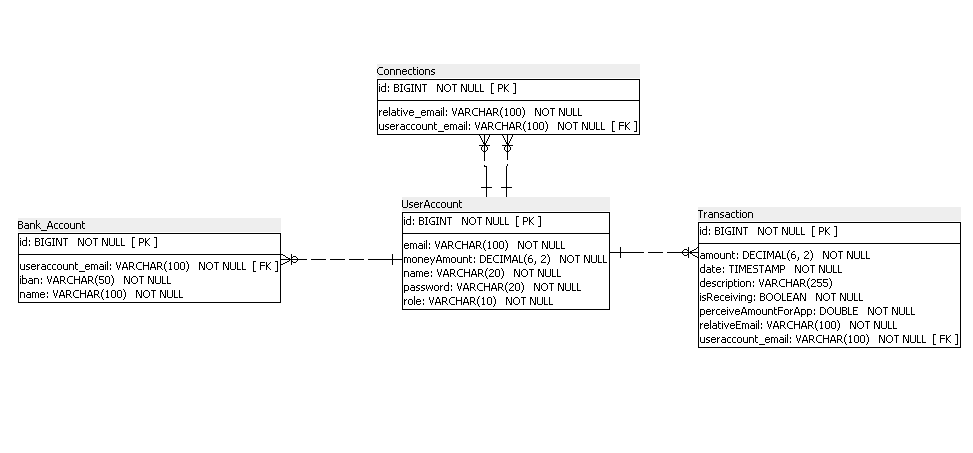
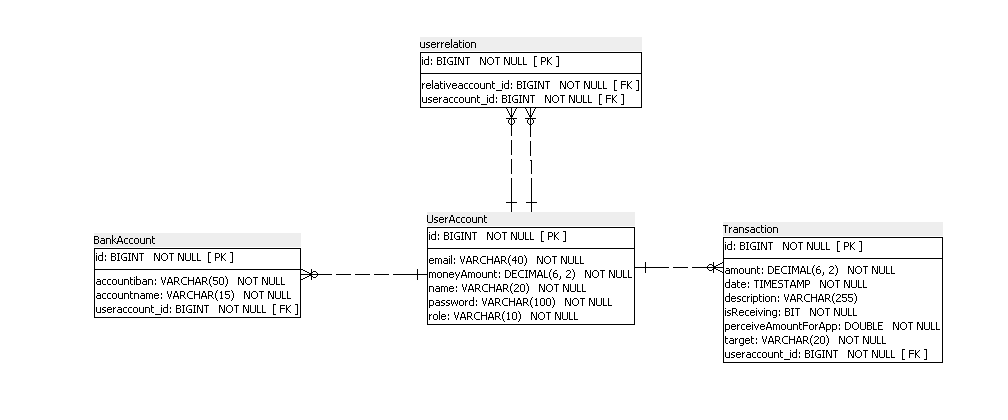
mise a jour du fichier d'initiation des tables mysql

diff --git a/src/main/java/com/paymybuddy/transferapps/domain/Transaction.java b/src/main/java/com/paymybuddy/transferapps/domain/Transaction.java
@@ -7,6 +7,7 @@ import lombok.NoArgsConstructor;
 import lombok.Setter;
 
 import javax.persistence.*;
+import javax.validation.constraints.NotNull;
 import java.io.Serializable;
 import java.sql.Timestamp;
 
@@ -21,16 +22,17 @@ public class Transaction implements Serializable {
     @Id
     @GeneratedValue(strategy = GenerationType.IDENTITY)
     private Long id;
-    @Column(nullable = false)
+    @Column(nullable = false, columnDefinition="Tinyint")
     private Boolean isReceiving;
     @Column
     private String description;
-    @Column(nullable = false)
+    @Column(nullable = false, columnDefinition="Decimal(6,2)")
     private double amount;
     @ManyToOne(fetch = FetchType.LAZY)
     @JoinColumn(name = "useraccount_id", referencedColumnName="id")
+    @NotNull
     private UserAccount userAccount;
-    @Column(nullable = false)
+    @Column(nullable = false, length = 20)
     private String target;
     @Column(nullable = false)
     private Timestamp date;

diff --git a/src/main/java/com/paymybuddy/transferapps/domain/UserAccount.java b/src/main/java/com/paymybuddy/transferapps/domain/UserAccount.java
@@ -19,15 +19,15 @@ public class UserAccount implements Serializable {
     @GeneratedValue(strategy = GenerationType.IDENTITY)
     private Long id;
 
-    @Column(unique = true, nullable = false)
+    @Column(unique = true, nullable = false, length = 40)
     private String email;
-    @Column(nullable = false)
+    @Column(nullable = false, length = 20)
     private String name;
-    @Column(nullable = false)
+    @Column(nullable = false, columnDefinition="Decimal(6,2)")
     private double moneyAmount;
-    @Column(nullable = false)
+    @Column(nullable = false, length = 100)
     private String password;
-    @Column(nullable = false)
+    @Column(nullable = false, length = 10)
     private String role;
 
     @OneToMany(cascade = CascadeType.PERSIST, fetch = FetchType.LAZY, mappedBy = "userAccount")

diff --git a/src/main/java/com/paymybuddy/transferapps/domain/BankAccount.java b/src/main/java/com/paymybuddy/transferapps/domain/BankAccount.java
@@ -6,6 +6,7 @@ import lombok.NoArgsConstructor;
 import lombok.Setter;
 
 import javax.persistence.*;
+import javax.validation.constraints.NotNull;
 import java.io.Serializable;
 
 @Getter
@@ -20,12 +21,13 @@ public class BankAccount implements Serializable {
     @GeneratedValue(strategy = GenerationType.IDENTITY)
     private Long id;
 
-    @Column(unique = true, nullable = false)
+    @Column(unique = true, nullable = false, length = 50)
     private String accountIban;
-    @Column(nullable = false)
+    @Column(nullable = false, length = 15)
     private String accountName;
     @ManyToOne(fetch = FetchType.LAZY)
     @JoinColumn(name = "useraccount_id", referencedColumnName="id")
+    @NotNull
     private UserAccount userAccount;
 
 }

diff --git a/src/main/java/com/paymybuddy/transferapps/domain/UserRelation.java b/src/main/java/com/paymybuddy/transferapps/domain/UserRelation.java
@@ -5,6 +5,7 @@ import lombok.Getter;
 import lombok.Setter;
 
 import javax.persistence.*;
+import javax.validation.constraints.NotNull;
 import java.io.Serializable;
 
 @Getter
@@ -20,8 +21,10 @@ public class UserRelation implements Serializable {
 
     @ManyToOne(fetch = FetchType.LAZY)
     @JoinColumn(name = "useraccount_id", referencedColumnName="id")
+    @NotNull
     private UserAccount userAccount;
     @ManyToOne(fetch = FetchType.LAZY)
     @JoinColumn(name = "relativeaccount_id", referencedColumnName="id")
+    @NotNull
     private UserAccount relativeAccount;
 }
